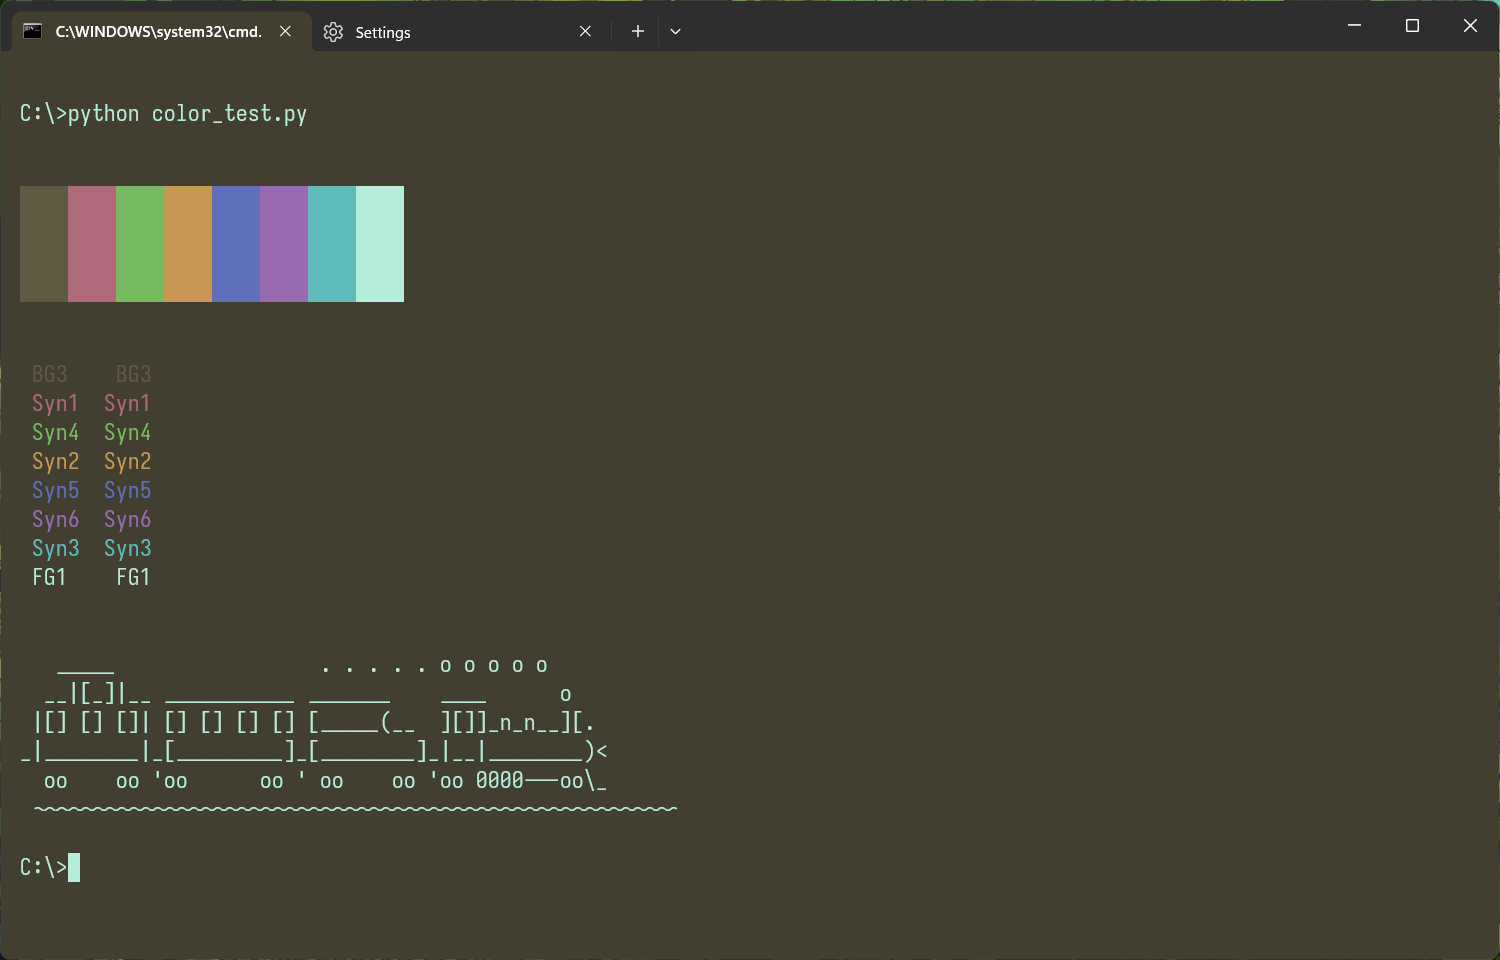
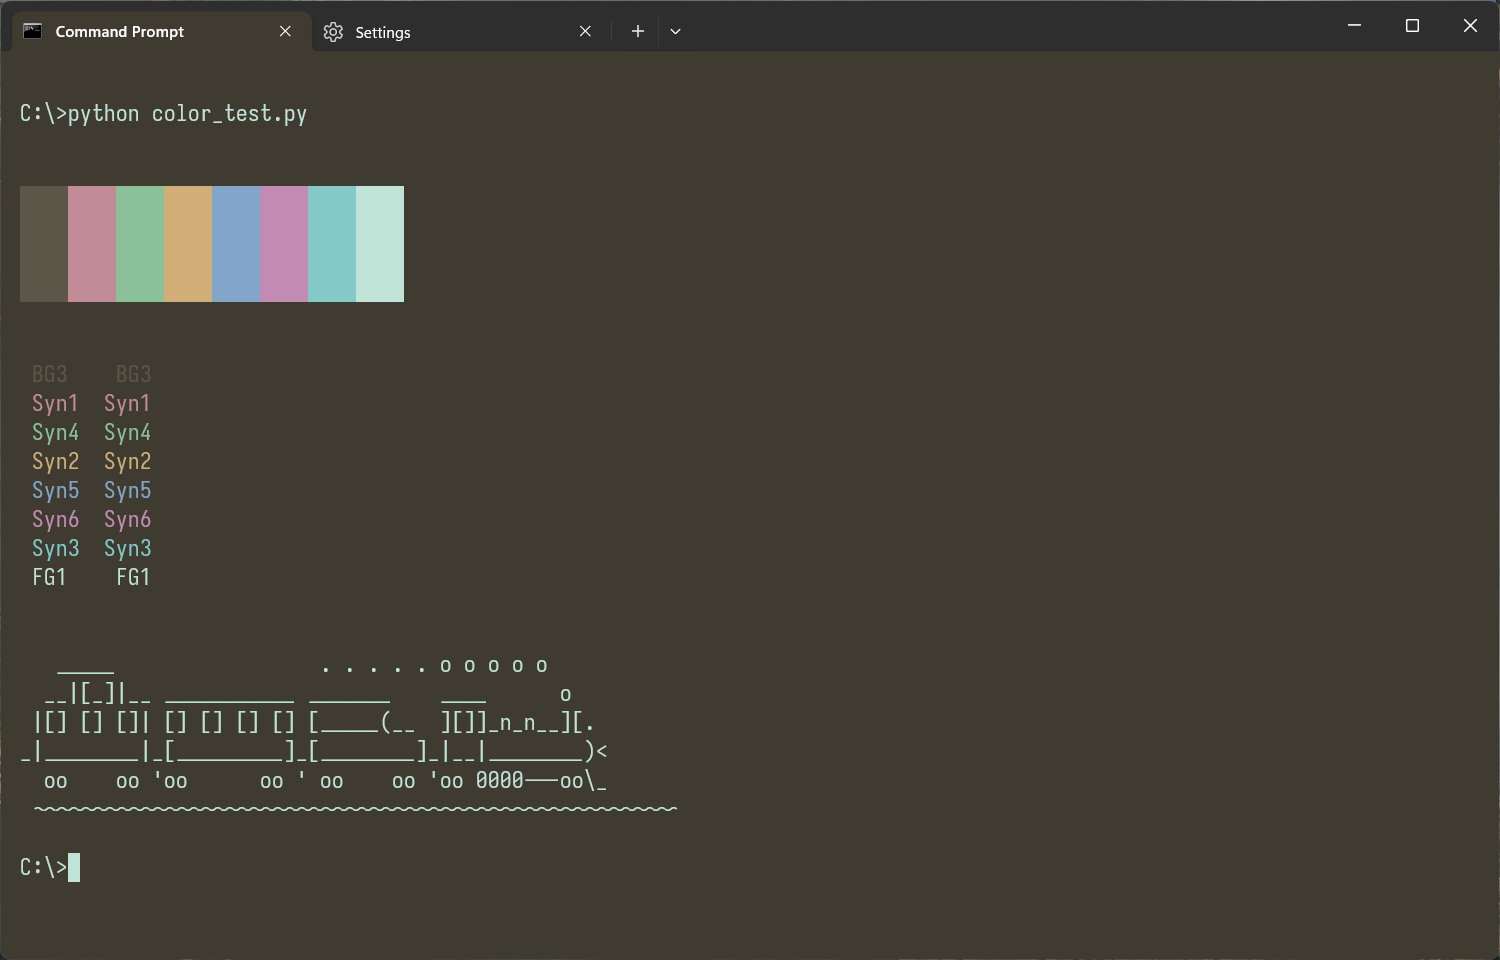
updating chizra

Changed region(s): [[0.0307, 0.1875, 0.2453, 0.3125], [0.0307, 0.4375, 0.092, 0.5625], [0.0613, 0.0, 0.1533, 0.0625]]

diff --git a/scheme_files/other/chizra.html b/scheme_files/other/chizra.html
@@ -26,29 +26,29 @@ this template is meant as a reference sheet for your color theme
 			</tr>
 			<tr>
 				<td>Background - 1st level<br><a>UI: default text bg</a></td>
-				<td>#423E30</td>
-				<td style="background-color:#423E30;"></td>
+				<td>#3f3b31</td>
+				<td style="background-color:#3f3b31;"></td>
 			</tr>
 			<tr>
 				<td>Background - 2nd level<br><a>UI: inactive tab or file bg, 2nd level surfaces bg</a></td>
-				<td>#4F4A3A</td>
-				<td style="background-color:#4F4A3A;"></td>
+				<td>#4d493d</td>
+				<td style="background-color:#4d493dA;"></td>
 			</tr>
 			<tr>
 				<td>Background - 3rd level<br><a>UI: separators, other bg symbols</a></td>
-				<td>#605A45</td>
-				<td style="background-color:#605A45;"></td>
+				<td>#5b5648</td>
+				<td style="background-color:#5b5648;"></td>
 			</tr>
 			<tr>
 				<td>Foreground - 1st level<br><a>UI: cursor
                 <br>SYNTAX: default text</a></td>
-				<td>#B6EDDA</td>
-				<td style="background-color:#B6EDDA;"></td>
+				<td>#bfe3d7</td>
+				<td style="background-color:#bfe3d7;"></td>
 			</tr>
 			<tr>
 				<td>Foreground - 2nd level<br><a>UI: 2nd level surfaces fg, inactive tab or file fg</td>
-				<td>#8BE2C5</td>
-				<td style="background-color:#8BE2C5;"></td>
+				<td>#9bd4c1</td>
+				<td style="background-color:#9bd4c1;"></td>
 			</tr>
 			<tr>
 				<td>Foreground - 3rd level<br><a>UI: fold, line numbers<br>SYNTAX: comments</a></td>
@@ -57,18 +57,18 @@ this template is meant as a reference sheet for your color theme
 			</tr>
 			<tr>
 				<td>Highlight - 1st level<br><a>UI: alternative marks</a></td>
-				<td>#82BCA8</td>
-				<td style="background-color:#82BCA8;"></td>
+				<td>#8bb1a4</td>
+				<td style="background-color:#8bb1a4;"></td>
 			</tr>	
 			<tr>
 				<td>Highlight - 2nd level<br><a>UI: selection, search marks, fold marks</a></td>
-				<td>#5FA990</td>
-				<td style="background-color:#5FA990;"></td>
+				<td>#6c9d8d</td>
+				<td style="background-color:#6c9d8d;"></td>
 			</tr>	
 			<tr>
 				<td>Highlight - 3rd level<br><a>UI: current line</a></td>
-				<td>#4B8C77</td>
-				<td style="background-color:#4B8C77;"></td>
+				<td>#568173</td>
+				<td style="background-color:#568173;"></td>
 			</tr>
 		</table>
 		<br>
@@ -83,35 +83,35 @@ this template is meant as a reference sheet for your color theme
 			<tr>
 				<td>syntax 1<br><a>UI: change history modified, alert, error
                 <br>SYNTAX: macro, methods, functions, symbols (question mark, shebang, etc.)<br>TERMINAL: red</a></td>
-				<td>#af6a7b</td>
-				<td style="background-color:#af6a7b;"></td>
+				<td>#c18b98</td>
+				<td style="background-color:#c18b98;"></td>
 			</tr>
 			<tr>
 				<td>syntax 2<br><a>UI: change history revert origin, change history revert modified, warnings
                 <br>SYNTAX: strings, char, regex, verbatim<br>TERMINAL: yellow</a></td>
-				<td>#C69854</td>
-				<td style="background-color:#C69854;"></td>
+				<td>#d2af79</td>
+				<td style="background-color:#d2af79;"></td>
 			</tr>
 			<tr>
 				<td>syntax 3<br><a>SYNTAX: opertors, variables, identifiers<br>TERMINAL: cyan</a></td>
-				<td>#5FBBBA</td>
-				<td style="background-color:#5FBBBA;"></td>
+				<td>#82c9c8</td>
+				<td style="background-color:#82c9c8;"></td>
 			</tr>
 			<tr>
 				<td>syntax 4<br><a>UI: change history saved
                 <br>SYNTAX: conditionals, keywords, tags, commands, instructions<br>TERMINAL: green</a></td>
-				<td>#75BA60</td>
-				<td style="background-color:#75BA60;"></td>
+				<td>#8bc198</td>
+				<td style="background-color:#8bc198;"></td>
 			</tr>
 			<tr>
 				<td>syntax 5<br><a>SYNTAX: keys, types, class, groups, sections, preprocessor<br>TERMINAL: blue</a></td>
-				<td>#5F6FBB</td>
-				<td style="background-color:#5F6FBB;"></td>
+				<td>#82a6c9</td>
+				<td style="background-color:#82a6c9;"></td>
 			</tr>
 			<tr>
 				<td>syntax 6<br><a>SYNTAX: qualifier, numbers, booleans, attributes<br>TERMINAL: magenta (purple)</a></td>
-				<td>#986aaf</td>
-				<td style="background-color:#986aaf;"></td>
+				<td>#c18bb3</td>
+				<td style="background-color:#c18bb3;"></td>
 			</tr>
 		</table>
 		<br>

diff --git a/doc/galery.md b/doc/galery.md
@@ -68,6 +68,12 @@ Even if you are no pokemon fan, this one might be sth. for you if you are lookin
 **Candy Cane**<br>
 ![](/assets/pictures/text-editor/candy-cane.png)<br><br>
 ![](/assets/pictures/terminal/candy-cane.png)<br><br>
+**Chizra - Temple of Nali Watergod**<br>
+Theme based on the colors from this iconic level from Unreal (PC edition; release 1998; Unreal Gold).<br>
+A never ending labyrinth of chambers and slightly green shimmering water. A place of serenity and calmness.<br>
+That's what I tried to replicate with the sea-green foreground and the stone background.<br><br>
+![](/assets/pictures/text-editor/chizra.png)<br><br>
+![](/assets/pictures/terminal/chizra.png)<br><br>
 **Cloud Forest**<br>
 Forest green background with a cloudy blue-grey foreground.<br><br>
 ![](/assets/pictures/text-editor/cloud-forest.png)<br><br>
@@ -120,6 +126,9 @@ Another Warhammer 40k theme.<br><br>
 A dark theme arround the Joker from Batman.<br><br>
 ![](/assets/pictures/text-editor/joker.png)<br><br>
 ![](/assets/pictures/terminal/joker.png)<br><br>
+**Medieval**<br>
+![](/assets/pictures/text-editor/medieval.png)<br><br>
+![](/assets/pictures/terminal/medieval.png)<br><br>
 **Metropolis**<br>
 The picture I had in mind while making this was one of the modern mega cities at a autmn night. A dimmed slightly cold but colorful atmosphere.<br><br>
 ![](/assets/pictures/text-editor/metropolis.png)<br><br>
